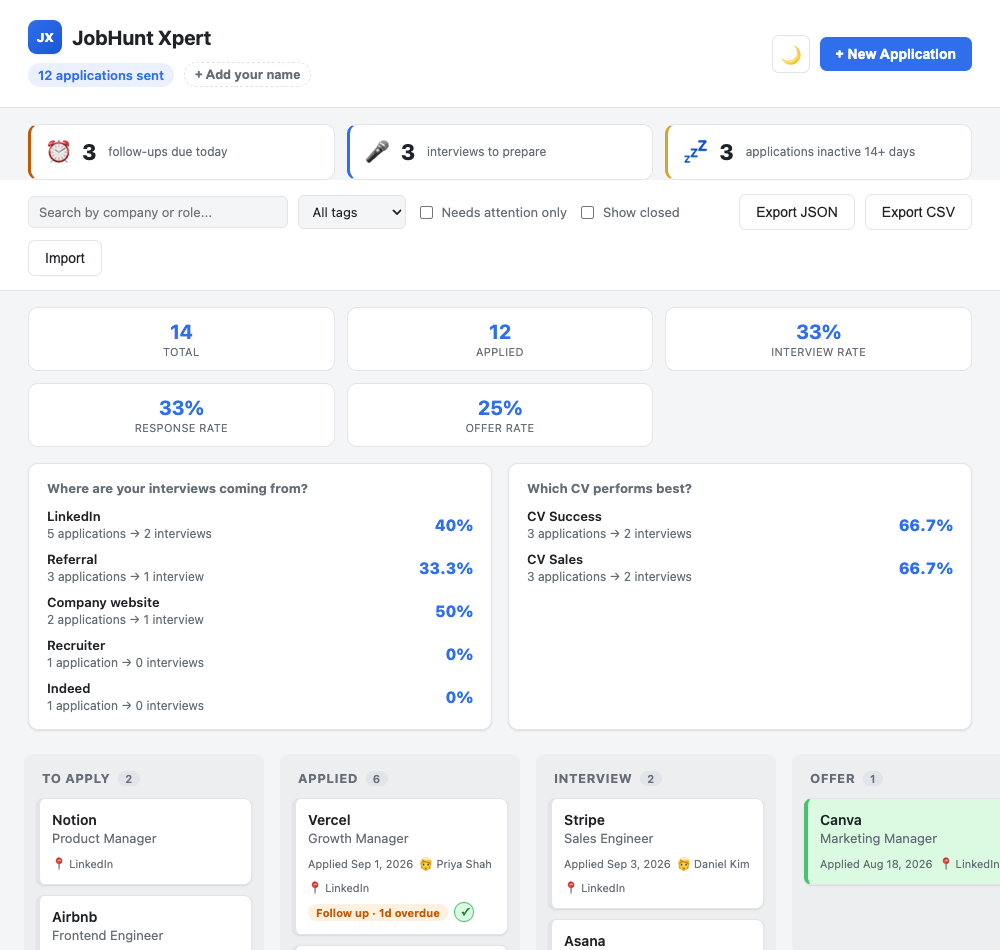
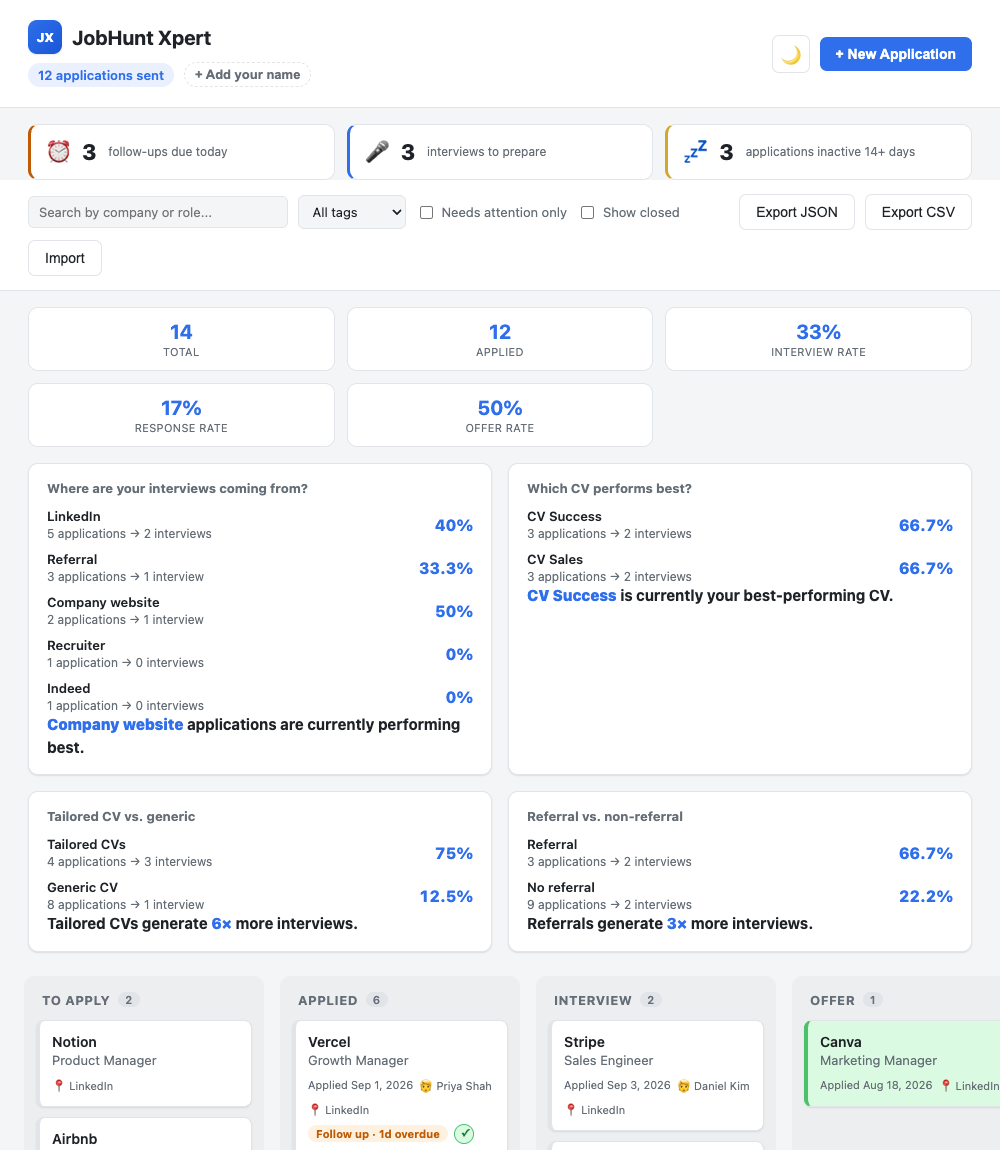
Enrich demo dataset with referral/tailored-CV signal, regenerate marketing screenshot
Populates the two new insight cards (Tailored vs. generic, Referral vs.
non-referral) with real signal in the demo/screenshot data instead of
leaving them empty, and refreshes the marketing screenshot to show the
corrected Response Rate and all four insight cards.

diff --git a/app.js b/app.js
@@ -2249,6 +2249,8 @@ function buildDemoCandidatures() {
     hadInterview: opts.hadInterview ?? false,
     closed: opts.closed || false,
     closedReason: opts.closedReason || "",
+    referral: opts.referral || false,
+    tailoredCv: opts.tailoredCv || false,
     interviews: opts.interviews || [],
     tags: opts.tags || [],
   });
@@ -2260,16 +2262,16 @@ function buildDemoCandidatures() {
     mk("Vercel", "Growth Manager", "applied", { appliedDate: addDays(today, -11), followUpDate: addDays(today, -1), followUpDone: false, source: "LinkedIn", contactPerson: "Priya Shah" }),
     mk("Dropbox", "Account Executive", "applied", { appliedDate: addDays(today, -10), followUpDate: today, followUpDone: false, source: "Referral" }),
     mk("Spotify", "Data Analyst", "applied", { appliedDate: addDays(today, -10), followUpDate: today, followUpDone: false, source: "Company website" }),
-    mk("Figma", "UX Researcher", "applied", { appliedDate: addDays(today, -16), followUpDone: true, source: "LinkedIn", cvVersion: "CV Success" }),
+    mk("Figma", "UX Researcher", "applied", { appliedDate: addDays(today, -16), followUpDone: true, source: "LinkedIn", cvVersion: "CV Success", tailoredCv: true }),
     mk("Linear", "Backend Engineer", "applied", { appliedDate: addDays(today, -18), followUpDone: true, source: "Referral", cvVersion: "CV Sales" }),
-    mk("Miro", "Partnerships Lead", "applied", { appliedDate: addDays(today, -20), followUpDone: true, source: "LinkedIn" }),
+    mk("Miro", "Partnerships Lead", "applied", { appliedDate: addDays(today, -20), followUpDone: true, source: "LinkedIn", referral: true }),
 
-    mk("Stripe", "Sales Engineer", "interview", { appliedDate: addDays(today, -9), hadInterview: true, followUpDone: true, source: "LinkedIn", cvVersion: "CV Sales", contactPerson: "Daniel Kim",
+    mk("Stripe", "Sales Engineer", "interview", { appliedDate: addDays(today, -9), hadInterview: true, followUpDone: true, source: "LinkedIn", cvVersion: "CV Sales", contactPerson: "Daniel Kim", tailoredCv: true,
       interviews: [{ id: crypto.randomUUID(), date: addDays(today, 2), time: "14:00", type: "Video call" }] }),
-    mk("Asana", "Customer Success Manager", "interview", { appliedDate: addDays(today, -7), hadInterview: true, followUpDone: true, source: "Referral", cvVersion: "CV Success",
+    mk("Asana", "Customer Success Manager", "interview", { appliedDate: addDays(today, -7), hadInterview: true, followUpDone: true, source: "Referral", cvVersion: "CV Success", referral: true, tailoredCv: true,
       interviews: [{ id: crypto.randomUUID(), date: addDays(today, 1), time: "10:30", type: "On-site" }] }),
 
-    mk("Canva", "Marketing Manager", "offer", { appliedDate: addDays(today, -25), hadInterview: true, followUpDone: true, source: "LinkedIn", cvVersion: "CV Success" }),
+    mk("Canva", "Marketing Manager", "offer", { appliedDate: addDays(today, -25), hadInterview: true, followUpDone: true, source: "LinkedIn", cvVersion: "CV Success", referral: true, tailoredCv: true }),
 
     mk("Slack", "Recruiter", "interview", { appliedDate: addDays(today, -19), hadInterview: true, followUpDone: true, source: "Company website", cvVersion: "CV Sales", closed: true, closedReason: "rejected" }),
     mk("Webflow", "Product Designer", "applied", { appliedDate: addDays(today, -22), followUpDone: true, source: "Recruiter", closed: true, closedReason: "ghosted" }),
